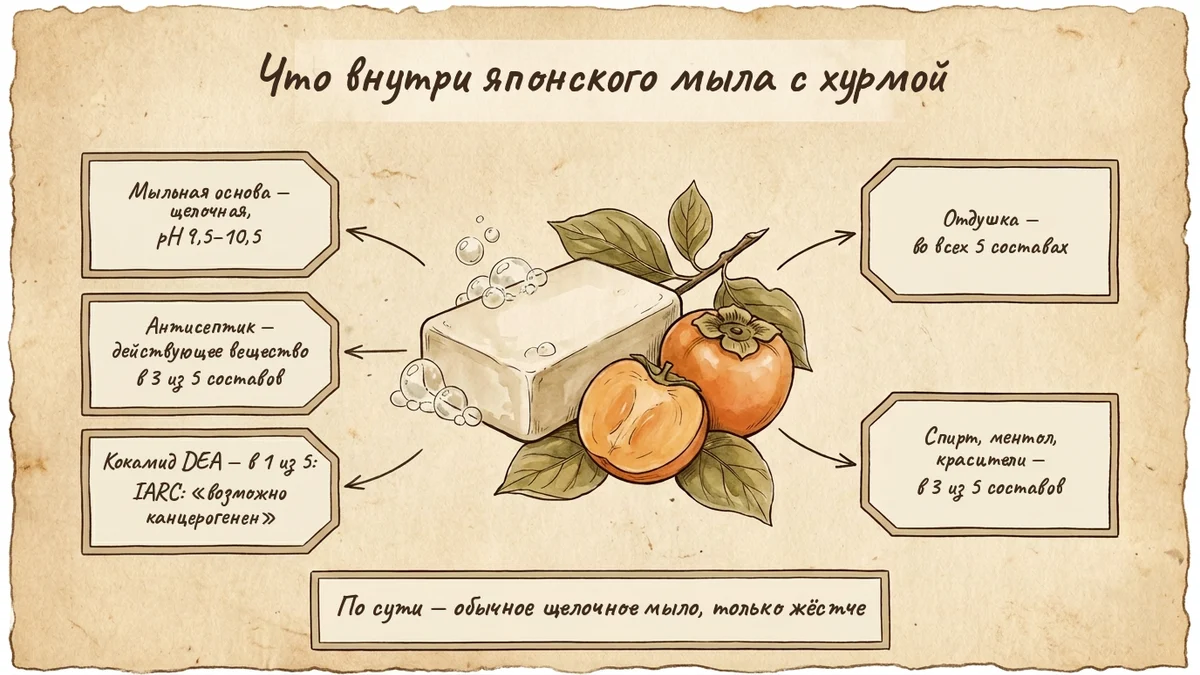
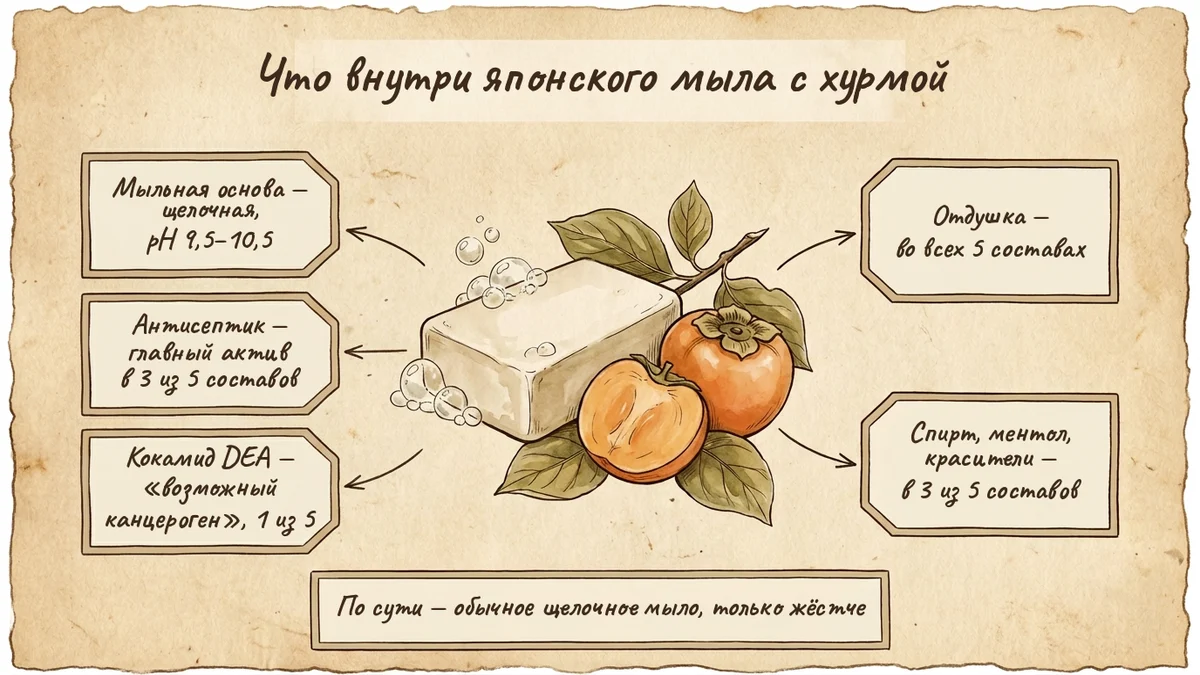
Иллюстрация мыла: короче подписи, один крупный размер

diff --git a/03-сайт/черновики/mylo-s-hurmoj/index.html b/03-сайт/черновики/mylo-s-hurmoj/index.html
@@ -222,7 +222,7 @@
 <p>Есть исследование и про возрастной запах. В 2012 году японские учёные проверили полифенолы хурмы двумя способами. В лаборатории они связывали 2-ноненаль. А у 20 японских мужчин 43–75 лет за 4 недели мытья достоверно снизились и количество 2-ноненаля на коже, и сила запаха (<a href="https://doi.org/10.2171/jao.43.362" target="_blank" rel="noopener">Tatsuguchi и соавторы, 2012</a>). Это хороший результат, но с двумя оговорками: участвовали только японцы, и измеряли в первую очередь 2-ноненаль. А его, как выяснилось позже, находят не у всех.</p>
 <p>Ещё деталь: в японских «лечебных» мылах с хурмой <strong>действующим веществом на упаковке указан антисептик</strong> изопропилметилфенол, а хурма стоит в списке прочих компонентов.</p>
 
-<div class="figure"><img src="/images/mylo-s-hurmoj-sostav.webp" alt="Иллюстрация: брусок мыла и хурма, подписи — мыльная щелочная основа pH 9,5–10,5, антисептик как действующее вещество в трёх составах из пяти, кокамид DEA в одном составе из пяти, отдушка во всех пяти, спирт, ментол или красители в трёх из пяти; вывод — обычное щелочное мыло, только жёстче" width="1200" height="675" loading="lazy"><figcaption>Что мы нашли в составах пяти японских мыл с хурмой из российских магазинов (проверено 06.10.2026).</figcaption></div>
+<div class="figure"><img src="/images/mylo-s-hurmoj-sostav.webp" alt="Иллюстрация: брусок мыла и хурма, подписи — мыльная щелочная основа pH 9,5–10,5, антисептик как главный актив в трёх составах из пяти, кокамид DEA — возможный канцероген — в одном составе из пяти, отдушка во всех пяти, спирт, ментол или красители в трёх из пяти; вывод — обычное щелочное мыло, только жёстче" width="1200" height="675" loading="lazy"><figcaption>Что мы нашли в составах пяти японских мыл с хурмой из российских магазинов (проверено 06.10.2026).</figcaption></div>
 
 <h2>2-ноненаль оказался не единственной причиной</h2>
 <p>За двадцать лет картина стала сложнее:</p>
